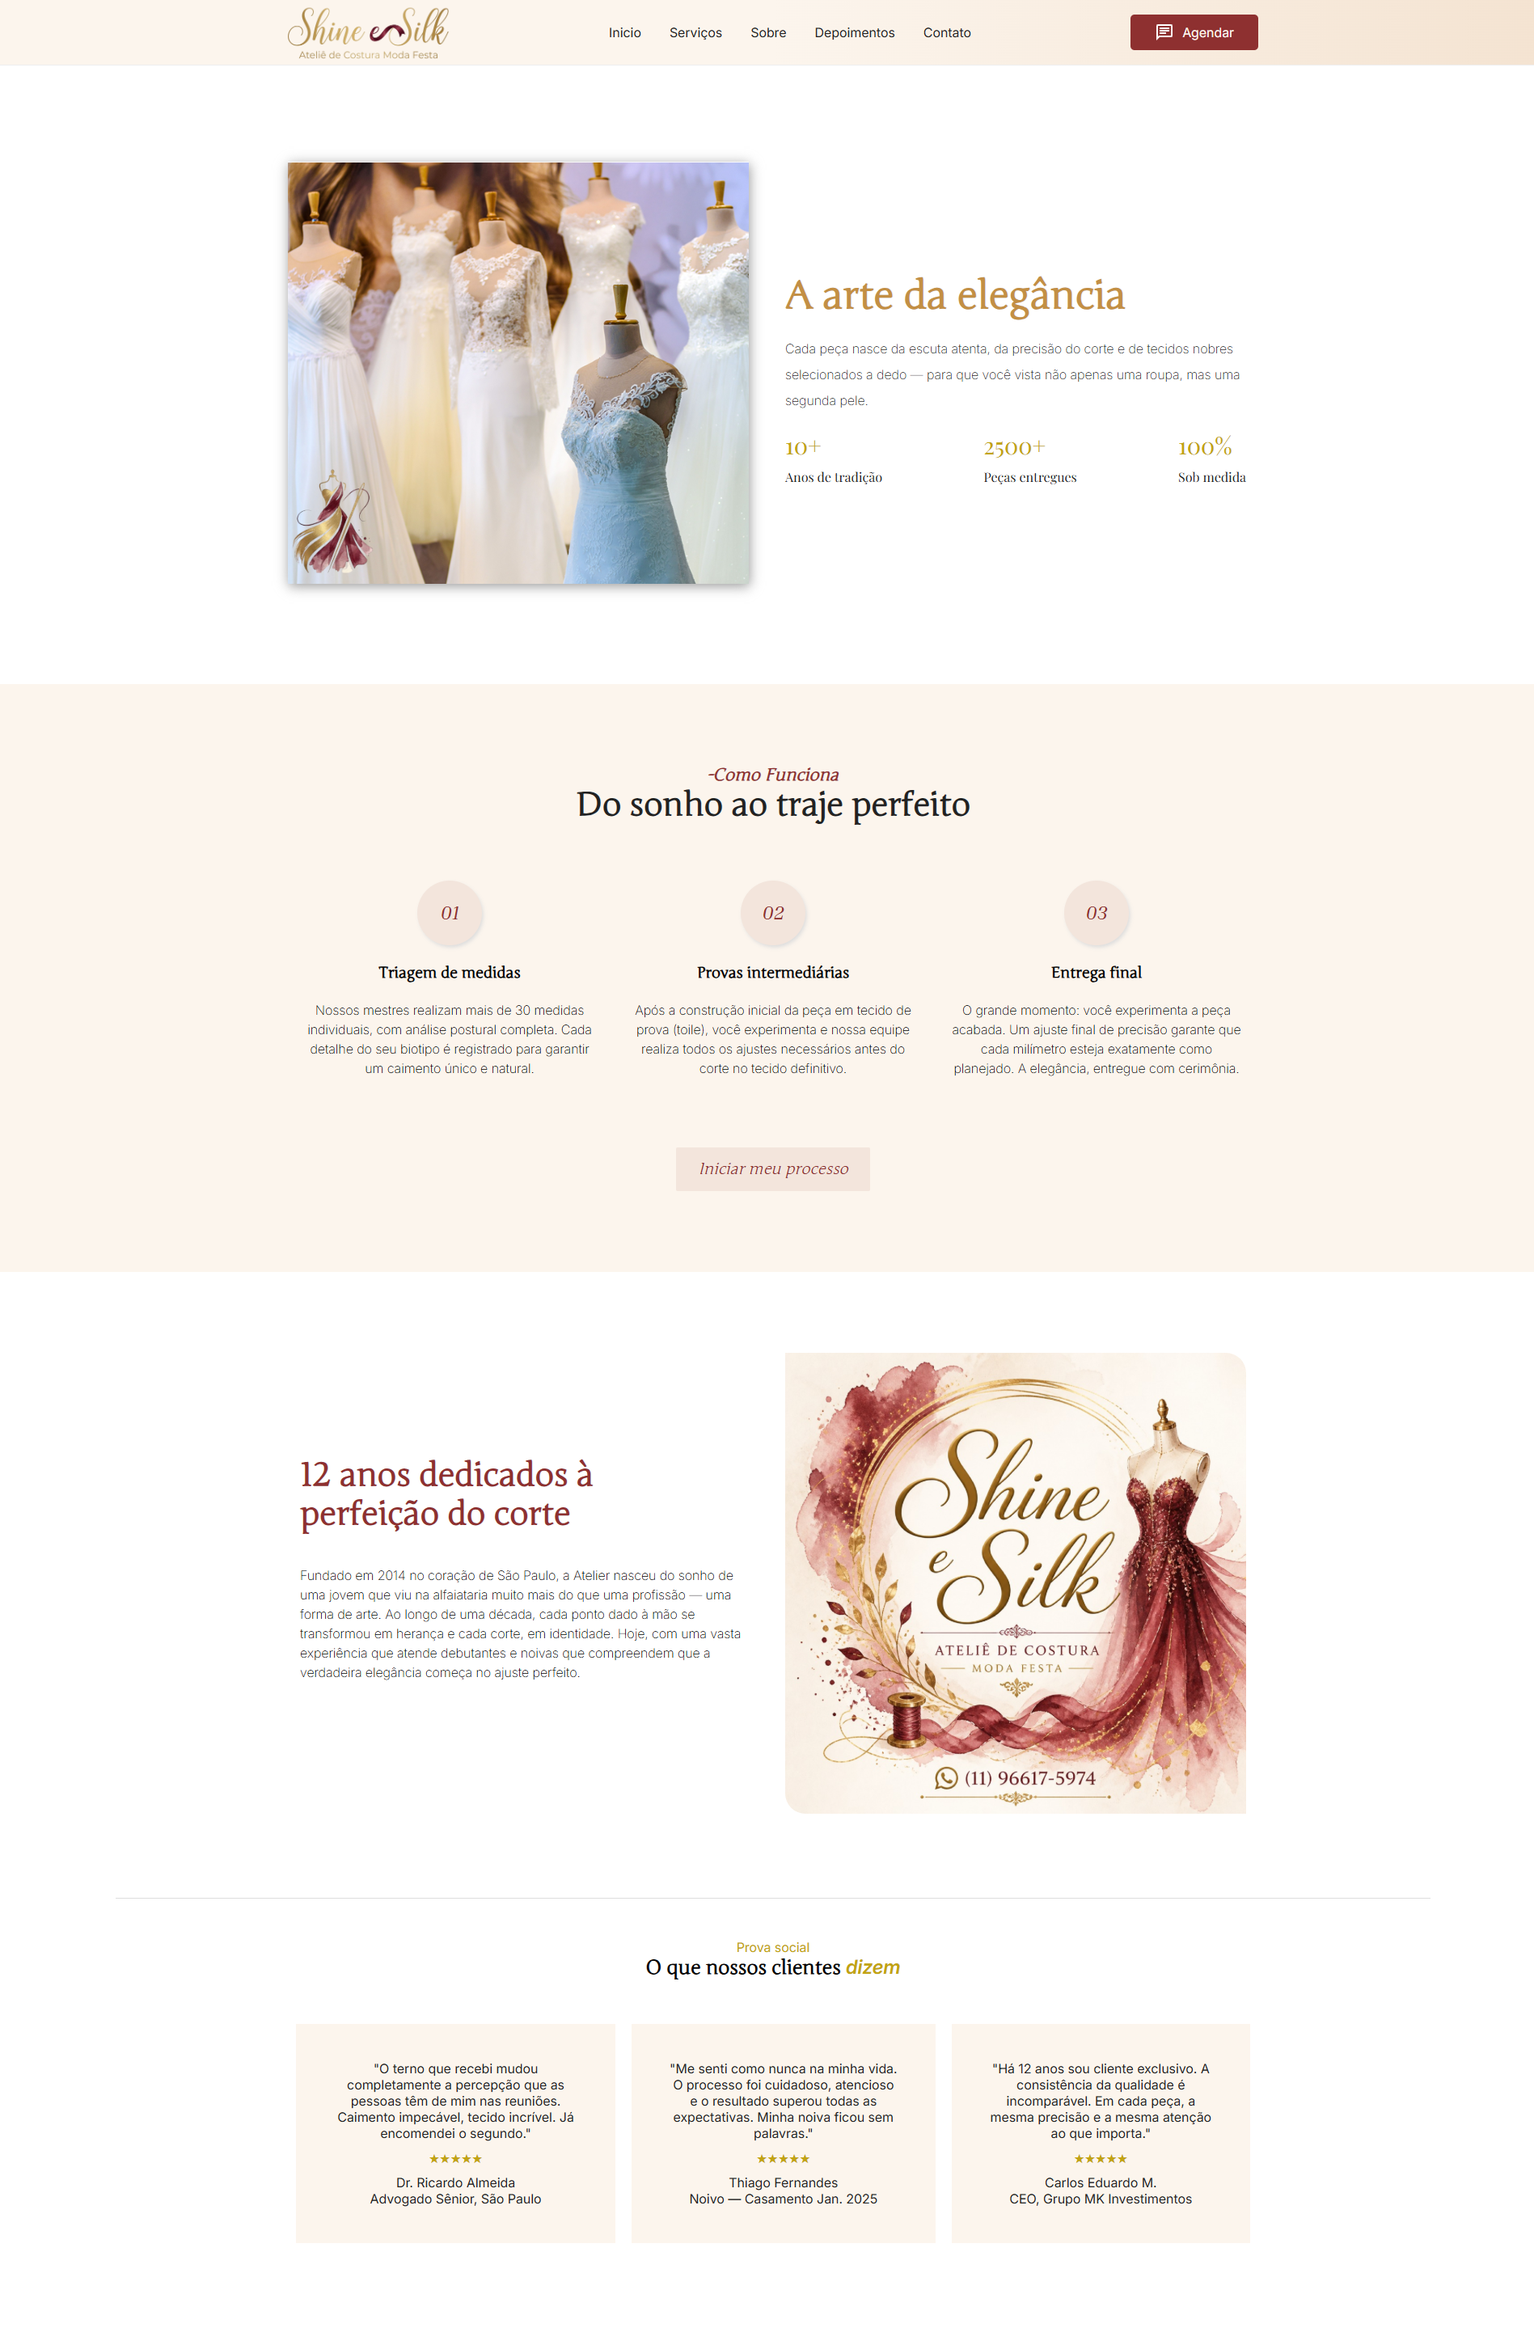
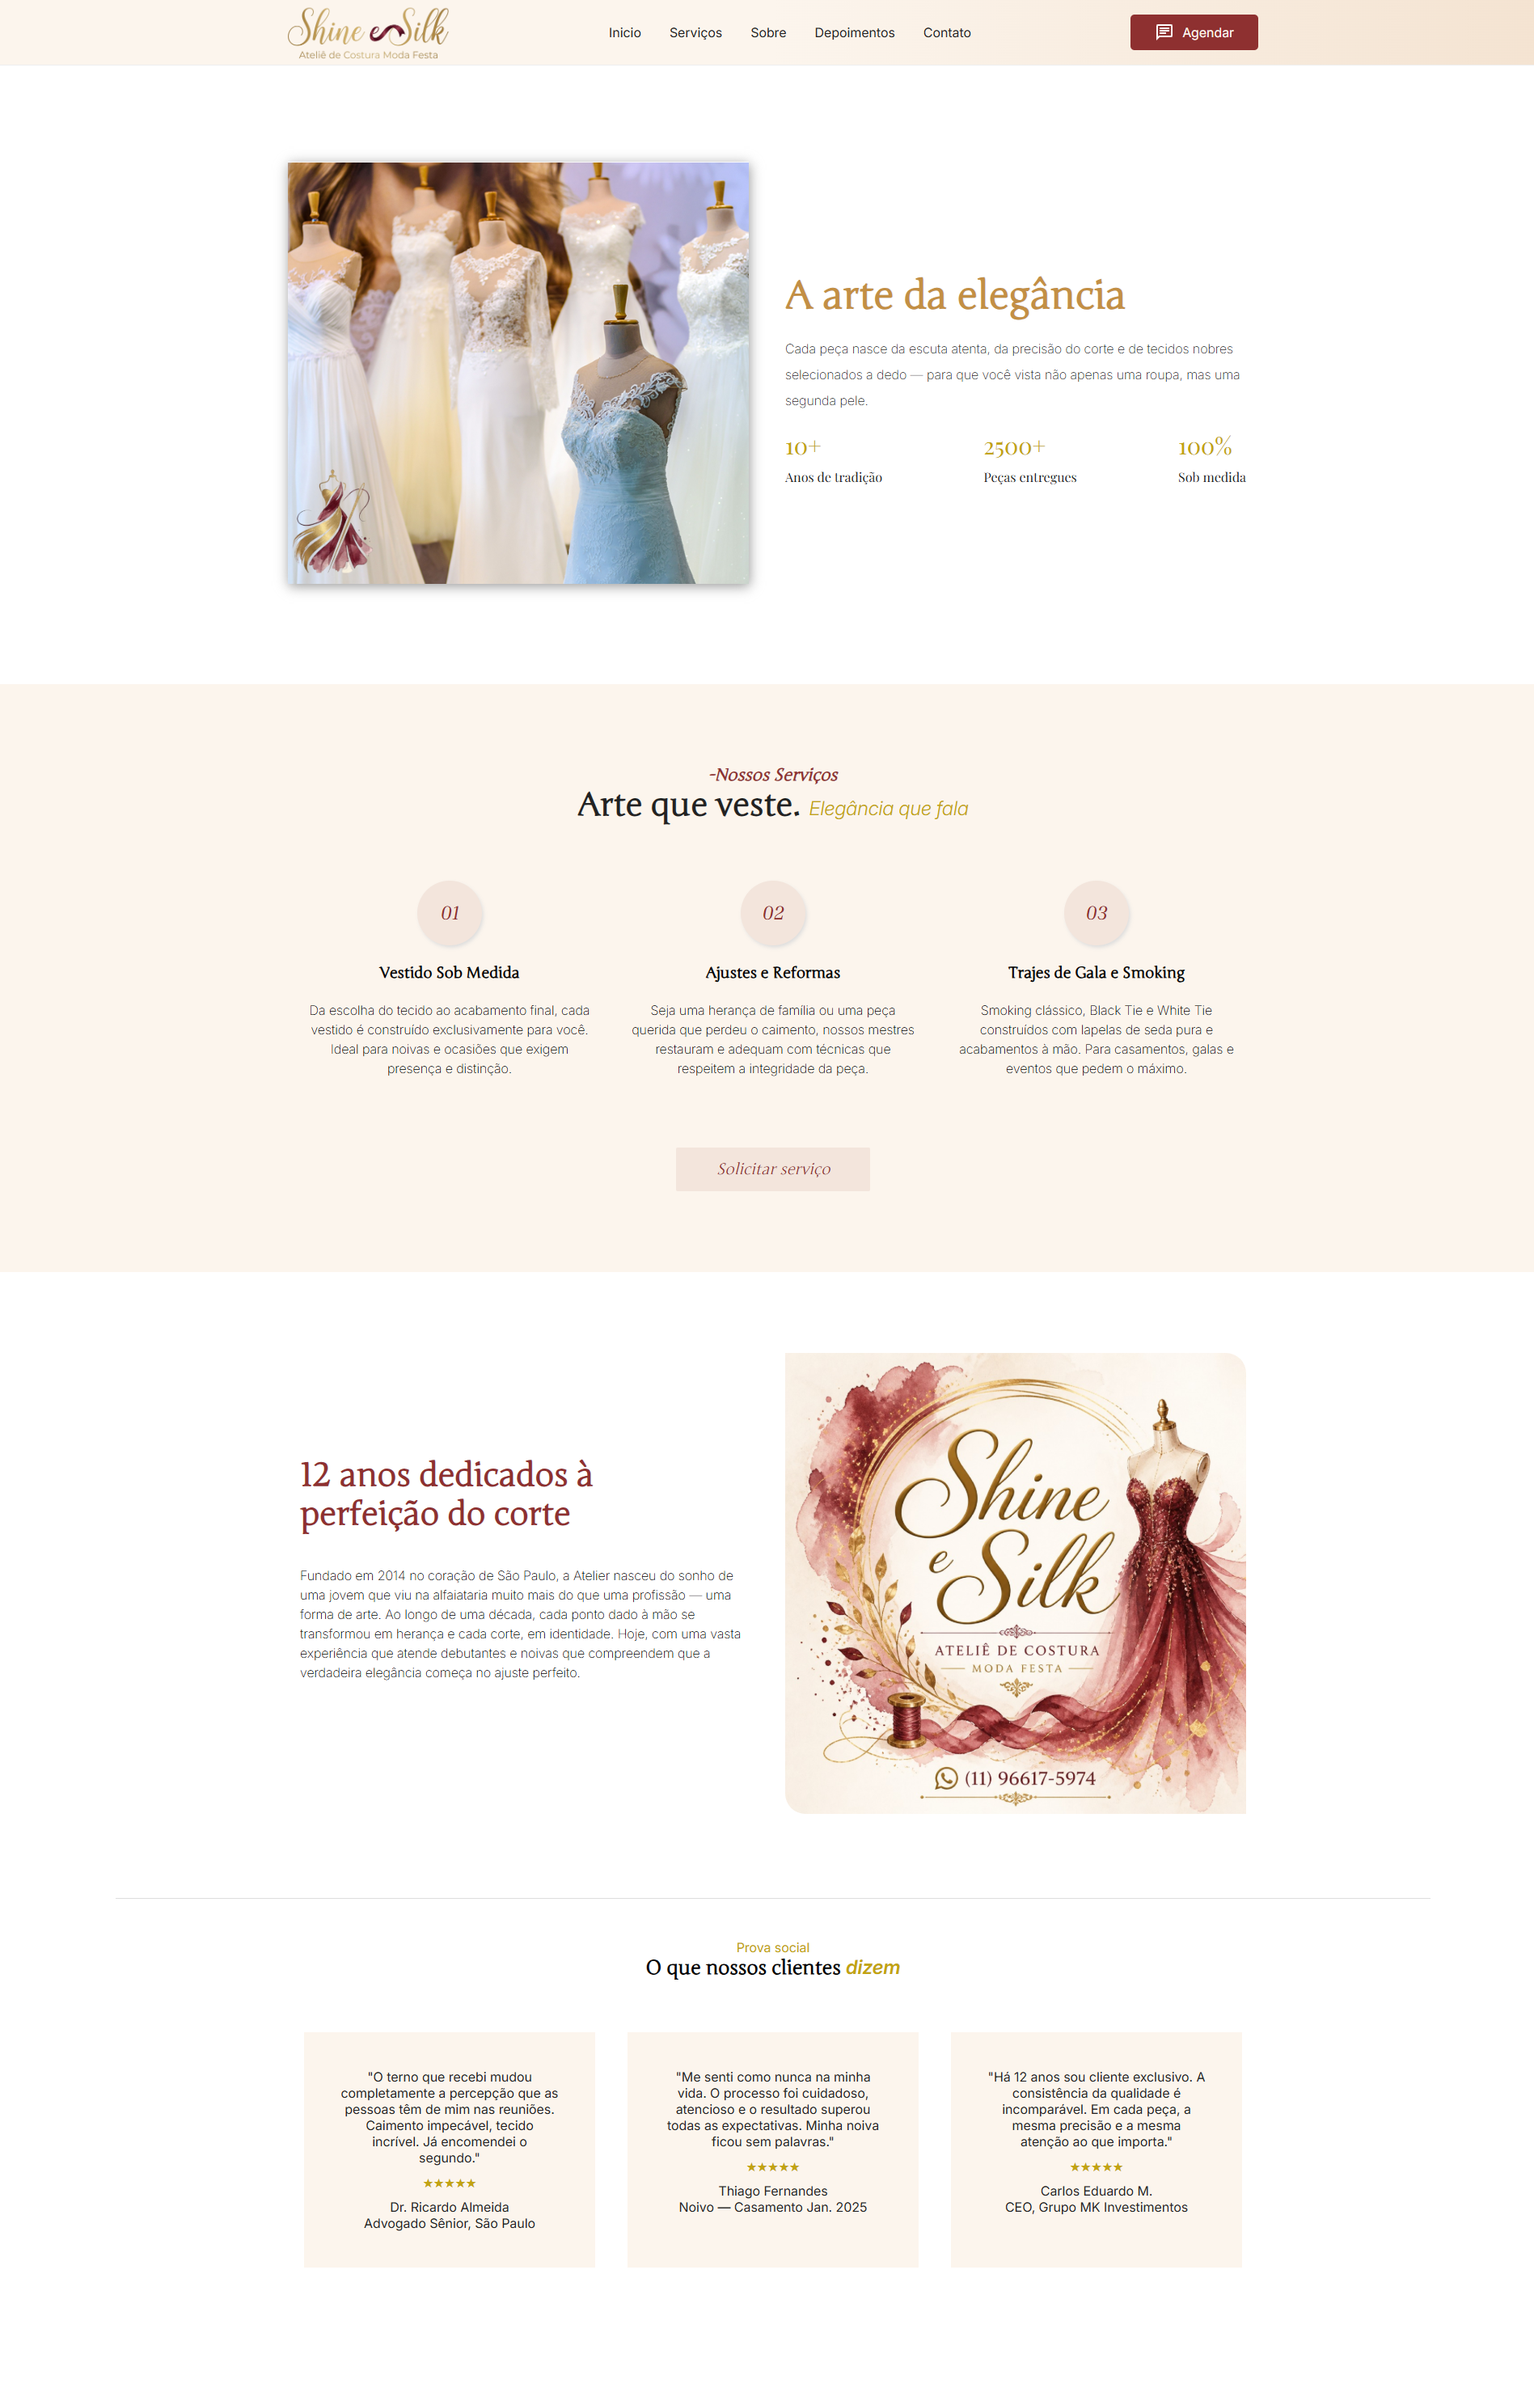
ajuste de texto da seção serviços

diff --git a/src/partials/servicos.html b/src/partials/servicos.html
@@ -1,28 +1,28 @@
 
 
-  <p class="texto_inicial_servicos">-Como Funciona</p>
-  <h2 class="titulo_inicial_servicos">Do sonho ao traje perfeito</h2>
+  <p class="texto_inicial_servicos">-Nossos Serviços</p>
+  <h2 class="titulo_inicial_servicos">Arte que veste. <span class="elegancia_fala">Elegância que fala</span> </h2> 
   
   <div class="container_servicos">
   
     <div class="itens_servicos">
       <div class="elipse_servicos">01</div>
-      <h3 class="titulo_box_servicos">Triagem de medidas</h3>
-      <p class="texto_servicos">Nossos mestres realizam mais de 30 medidas individuais, com análise postural completa. Cada detalhe do seu biotipo é registrado para garantir um caimento único e natural.</p>
+      <h3 class="titulo_box_servicos">Vestido Sob Medida</h3>
+      <p class="texto_servicos">Da escolha do tecido ao acabamento final, cada vestido é construído exclusivamente para você. Ideal para noivas e ocasiões que exigem presença e distinção.</p>
     </div>
     
     <div class="itens_servicos">
       <div class="elipse_servicos">02</div>
-      <h3 class="titulo_box_servicos">Provas intermediárias</h3>
-      <p class="texto_servicos">Após a construção inicial da peça em tecido de prova (toile), você experimenta e nossa equipe realiza todos os ajustes necessários antes do corte no tecido definitivo.</p>
+      <h3 class="titulo_box_servicos">Ajustes e Reformas</h3>
+      <p class="texto_servicos">Seja uma herança de família ou uma peça querida que perdeu o caimento, nossos mestres restauram e adequam com técnicas que respeitem a integridade da peça.</p>
     </div>
     
     <div class="itens_servicos">
       <div class="elipse_servicos">03</div>
-      <h3 class="titulo_box_servicos">Entrega final</h3>
-      <p class="texto_servicos">O grande momento: você experimenta a peça acabada. Um ajuste final de precisão garante que cada milímetro esteja exatamente como planejado. A elegância, entregue com cerimônia.</p>
+      <h3 class="titulo_box_servicos">Trajes de Fantasia </h3>
+      <p class="texto_servicos"> Fantasias criadas com tecidos de alta qualidade e detalhes feitos à mão. Para festas a tema, convenções e eventos que exigem o máximo de destaque.</p>
     </div>
   </div>  
   
-     <a href="#" target="_blank" class="btn_processo">Iniciar meu processo</a>
+     <a href="#" target="_blank" class="btn_processo">Solicitar serviço</a>
             

diff --git a/src/css/estilo.css b/src/css/estilo.css
@@ -256,6 +256,14 @@ header {
     margin: 10px 0px;
 }
 
+
+    .elegancia_fala{
+        font-size: 1rem;
+        font-style: italic;
+        color: var(--cor-destaque);
+        font-weight: 200;
+    }
+
 .texto_servicos {
     margin-bottom: 0px;
     font-weight: 200;
@@ -336,7 +344,6 @@ header {
     width: 85%;
     margin: auto;
     border-top: 1px solid #ddd;
-   
     
 }
 
@@ -359,9 +366,6 @@ header {
     margin: 10px 0px;
     color: var(--cor-destaque);
 }
-
-
-
 
 
 .prova_social{
@@ -435,9 +439,9 @@ header {
 
     .texto_servicos{
         width: 100%;
-        font-size: .8rem;
-        
+        font-size: .8rem;        
     }
+
 
     .titulo_clientes, .prova_social{
         text-align: center;
@@ -446,11 +450,32 @@ header {
     .titulo_clientes{
         padding-bottom: 50px;
     }
-
     
 
     .prova_social{
         padding-top: 50px;
+    }
+
+    #depoimentos{
+        width: 98%;
+    }
+
+
+    .container_depoimentos{
+        flex-wrap: wrap;
+        
+    }   
+    
+    
+
+    .box_depoimentos{
+        width:46%;
+        margin: 15px auto;
+    }
+
+    .box3_depoimentos{
+        flex-grow: 1;
+        
     }
 }
 
@@ -517,6 +542,12 @@ header {
         
     }
 
+    
+    .elegancia_fala{
+        font-size: 1.5rem;
+        font-weight: 300;
+    }   
+
     .titulo_sobre {
         font-size: 2.5rem;
     }
@@ -525,16 +556,33 @@ header {
         font-size: 1rem;
     }
 
-    
+    #depoimentos{
+        width: 95%;
+        
+    }
+
+    .container_depoimentos{
+        flex-wrap: nowrap;
+        
+    }   
+
+    .box_depoimentos{
+        width:30%;
+        margin: 15px auto;
+    }
+
+    .box3_depoimentos{
+        flex-grow: 0;
+        
+    }
+
+}
 
 
-
-
-
-
-
-
-
+@media(min-width:1200px){
+    #depoimentos{
+       width: 85%;
+    }
 }
 
 /* mobile ------------------------------------------------*/
@@ -665,6 +713,7 @@ header {
 
     #depoimentos{
         padding: 20px;
+        width: 100%;
     }
 
     .container_depoimentos{

diff --git a/src/partials/depoimentos.html b/src/partials/depoimentos.html
@@ -17,7 +17,7 @@
             <p>Thiago Fernandes <br> Noivo — Casamento Jan. 2025</p>
         </div>
 
-        <div class="box_depoimentos">
+        <div class="box_depoimentos box3_depoimentos">
             <p>"Há 12 anos sou cliente exclusivo. A consistência da qualidade é incomparável. Em cada peça, a mesma precisão e a mesma atenção ao que importa."</p>
             <span class="estrelinhas_depoimentos">★★★★★</span>
             <p>Carlos Eduardo M. <br> CEO, Grupo MK Investimentos</p>
